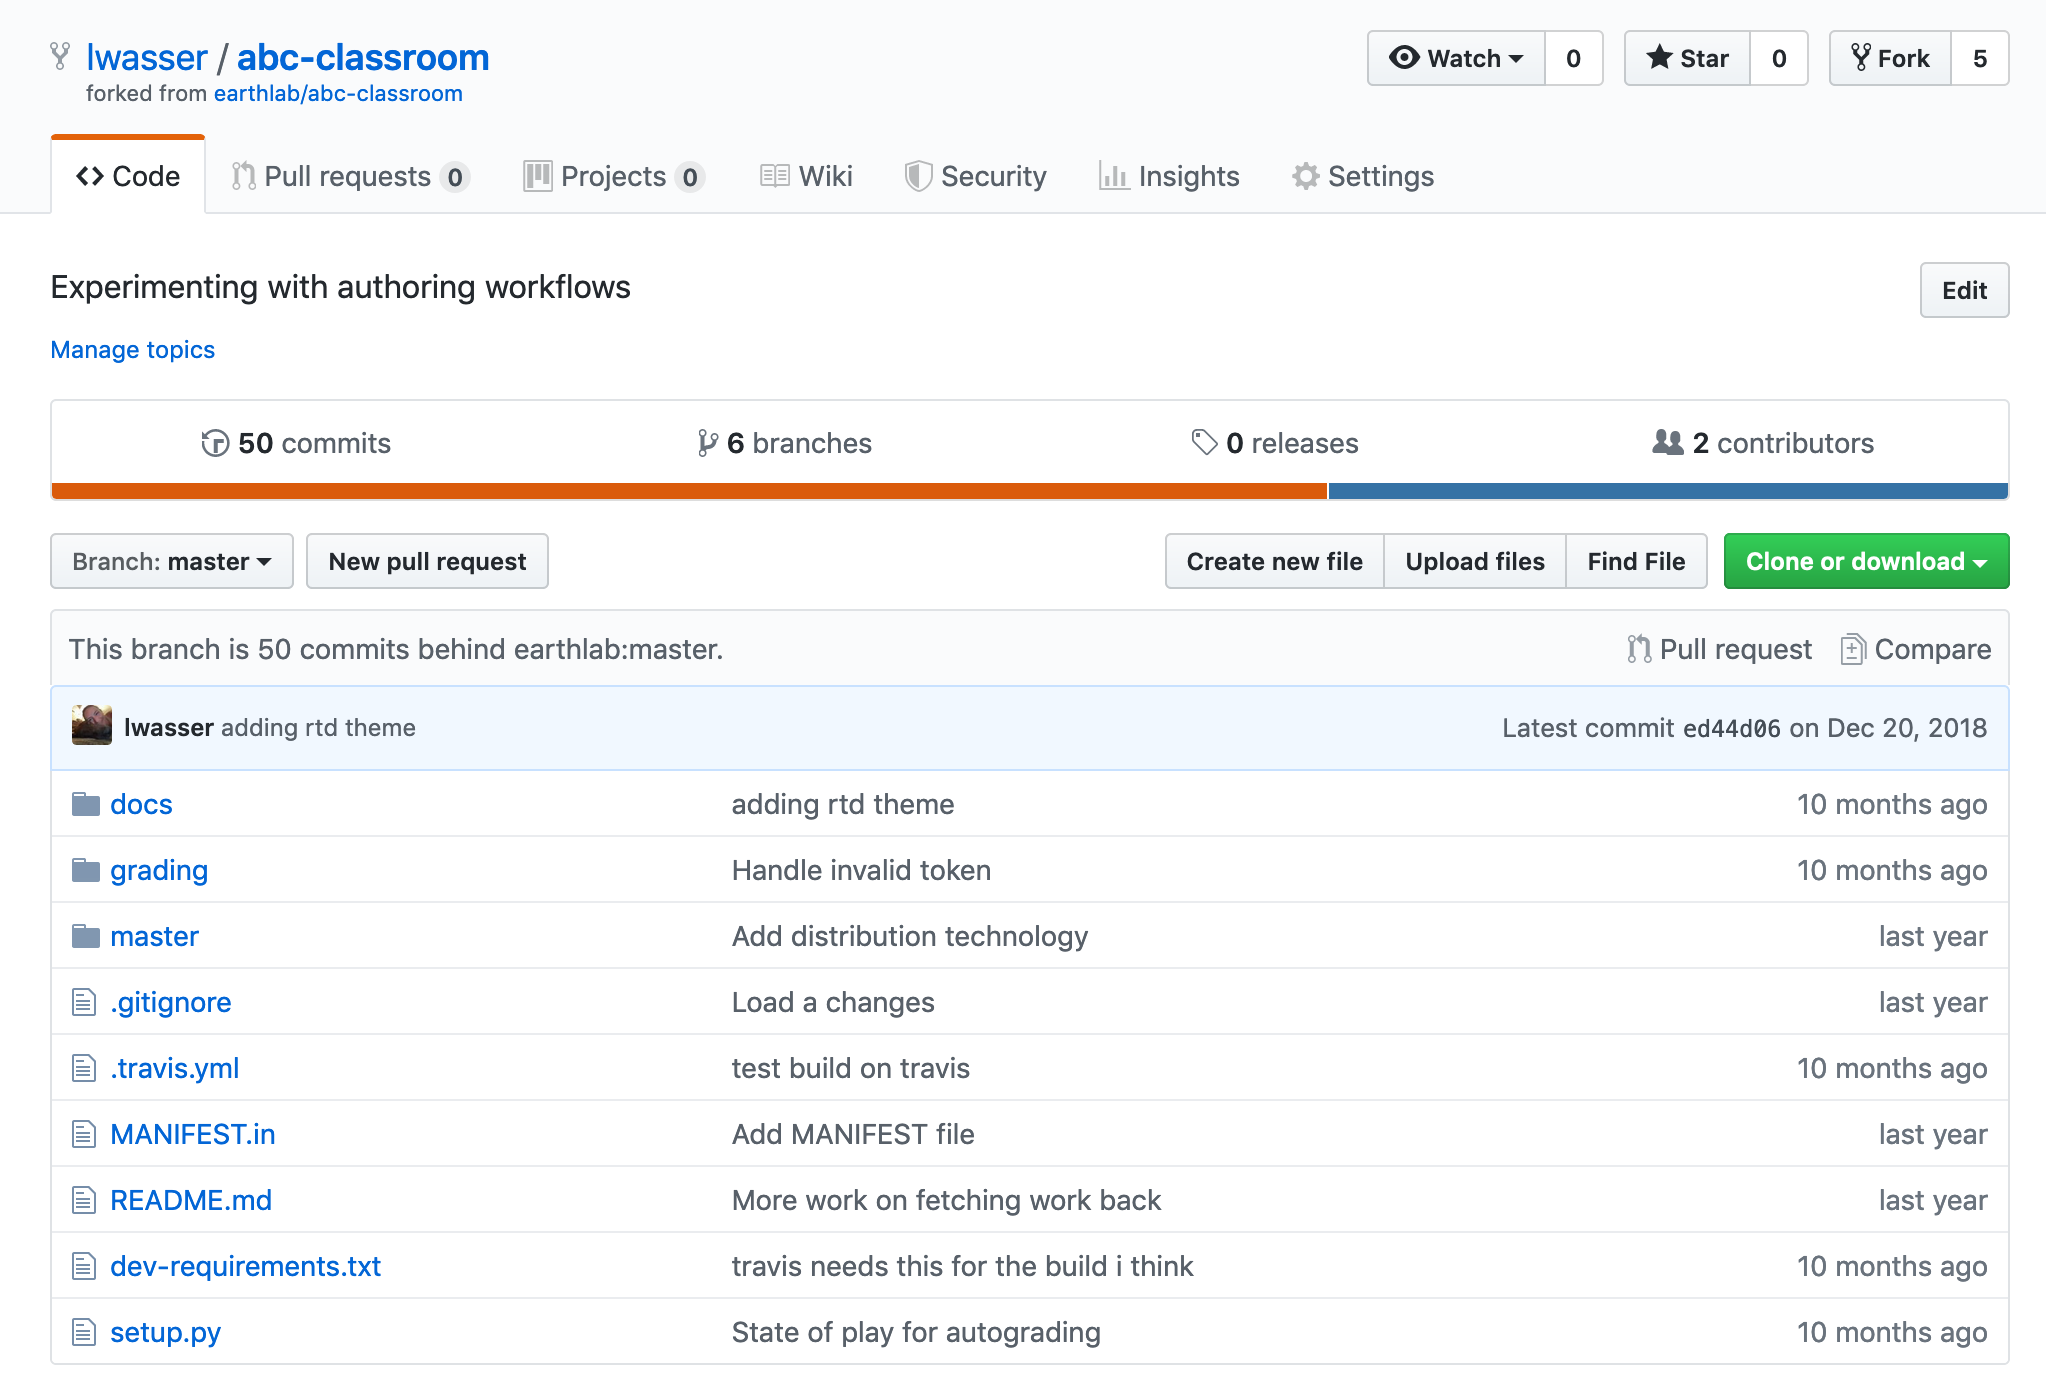
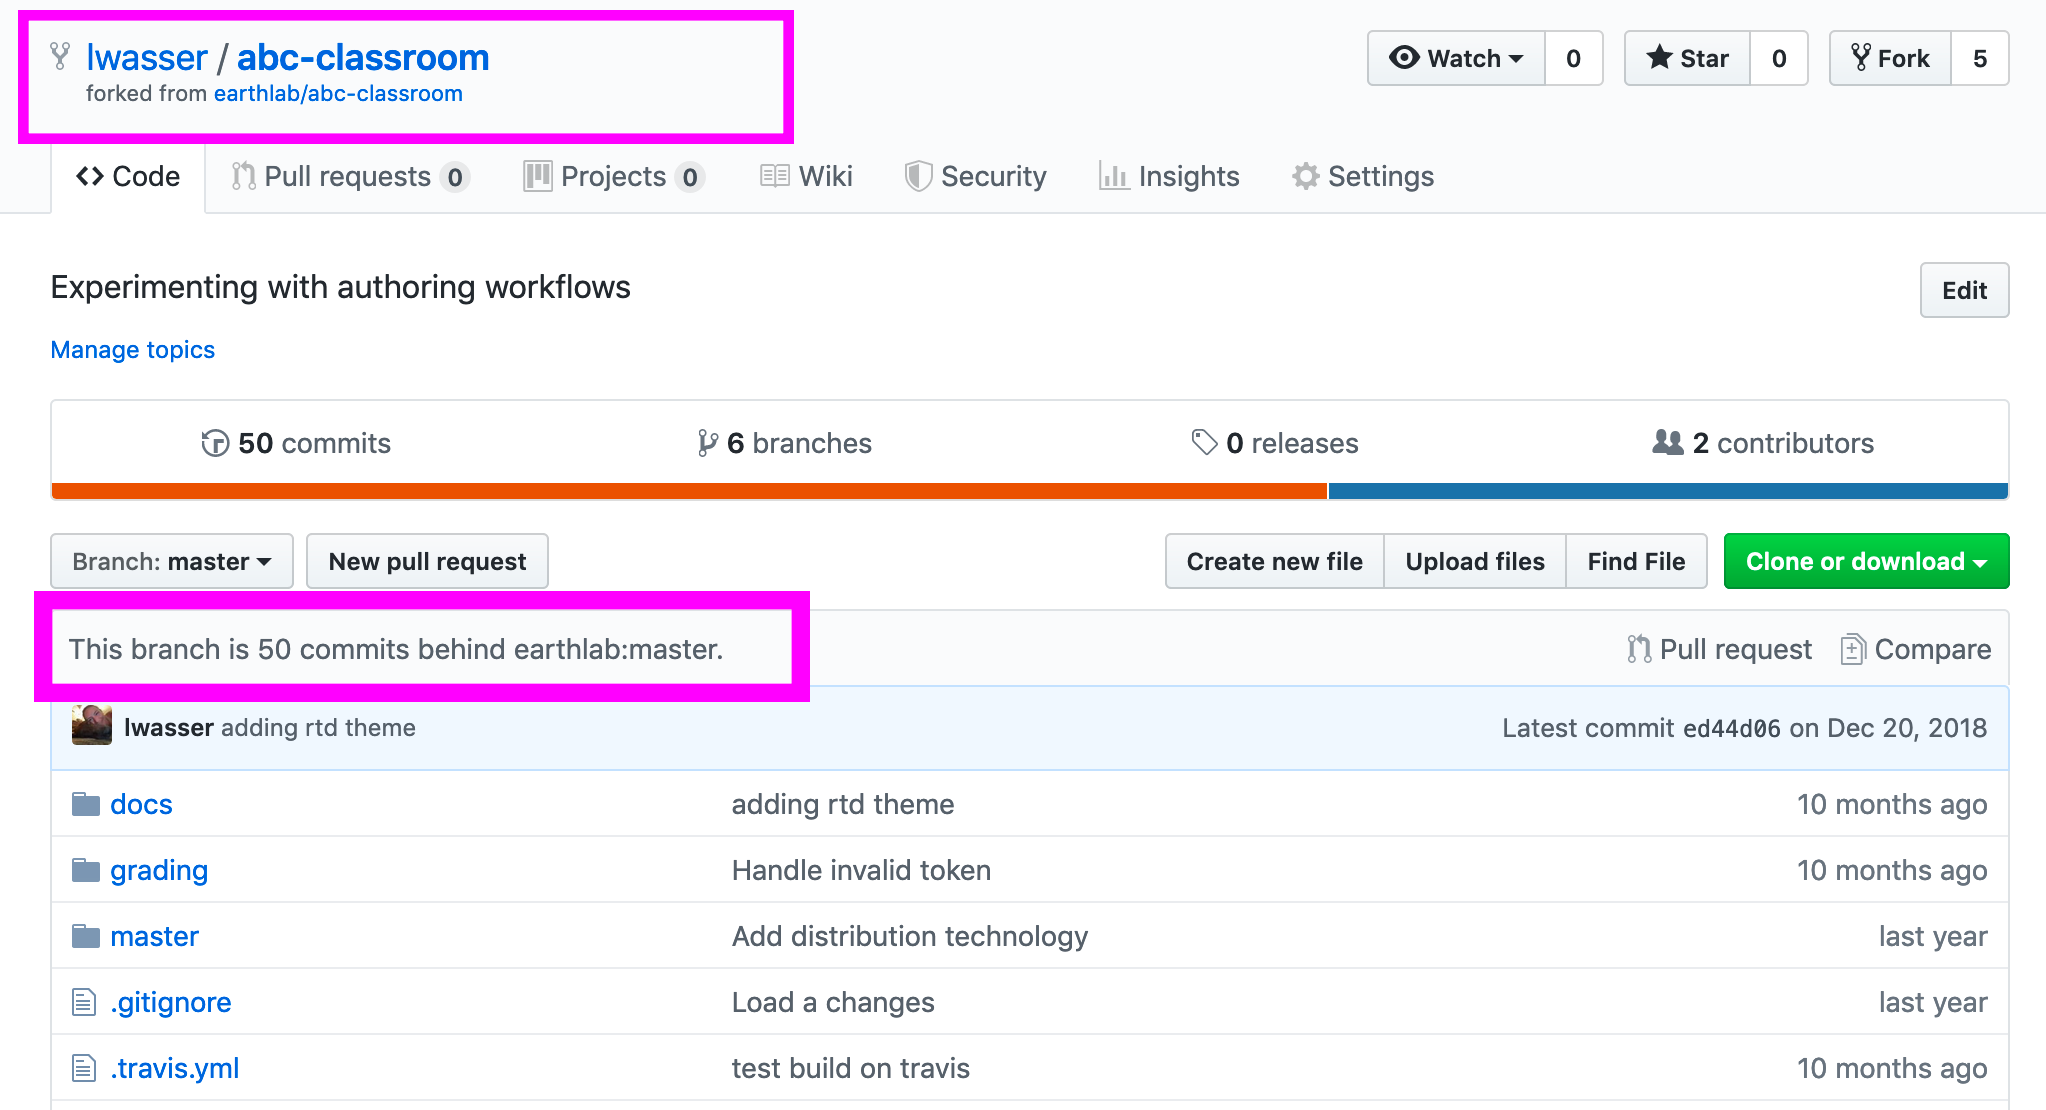
update sync lesson and cleanup comment

diff --git a/_posts/courses/intro-to-earth-data-science-textbook/03-git-github/github-collaboration/2019-10-02-github-collaboration-03-sync-github-repos.md b/_posts/courses/intro-to-earth-data-science-textbook/03-git-github/github-collaboration/2019-10-02-github-collaboration-03-sync-github-repos.md
@@ -33,9 +33,10 @@ After completing this page, you will be able to:
 
 </div>
 
-** how to update on GitHub
 
-github-commits-behind-master-abc.png
+
+
+
 
 TODO: create animated gif that shows the repo being out of sync and behind and then syncing...
 
@@ -53,8 +54,12 @@ Pretend that you are working on a fork of your colleagues repo. Your colleagues 
 Your repo being in sync refers to your fork having all of the commits or changes
 to the code and files that have been made to the parent repo.
 
-# TODO: Image showing a fork that is behind the parent ... and maybe one that's ahead???
-
+<figure>
+ <a href="{{ site.url }}/images/earth-analytics/git-version-control/github-commits-behind-master-abc.png">
+ <img src="{{ site.url }}/images/earth-analytics/git-version-control/github-commits-behind-master-abc.png" alt="Image of an out of sync forked repo. Notice that you can tell by the upper right hand corner of the repo that this fork is owned by lwasser. The parent repo is owned by earthlab. You can also see that this fork is BEHIND the parent repo by 50 commits. This fork is out of sync."></a>
+ <figcaption>Image of an out of sync forked repo. Notice that you can tell by the upper right hand corner of the repo that this fork is owned by lwasser. The parent repo is owned by earthlab. You can also see that this fork is BEHIND the parent repo by 50 commits. This fork is out of sync.
+ </figcaption>
+</figure>
 
 There are a few ways to update or sync your repo with the central repo (your colleagues repo).
 
@@ -64,6 +69,15 @@ There are a few ways to update or sync your repo with the central repo (your col
 This lesson will focus on syncing your fork using a reverse pull request approach on GitHub.com
 
 TODO: Image showing fork, clone and central repo (i imagine a triangle type graphic showing 1 and two... the order being different.. ) Ally could work on this.
+
+
+
+<figure>
+ <a href="{{ site.url }}/images/earth-analytics/git-version-control/git-fork-clone-flow-neon.png">
+ <img src="{{ site.url }}/images/earth-analytics/git-version-control/git-fork-clone-flow-neon.png" alt="When you fork a repo that is being actively worked on by other people, it is good practice to periodically update your fork with updates. Remember that multiple people may be adding to this repo at any given time."></a>
+ <figcaption>When you fork a repo that is being actively worked on by other people, it is good practice to periodically update your fork with updates. Remember that multiple people may be adding to this repo at any given time.
+ </figcaption>
+</figure>
 
 ## Sync Your Forked GitHub Repo Using A Pull Request
 
@@ -75,7 +89,7 @@ To sync your forked repo with the parent or central repo you:
 <figure>
  <a href="{{ site.url }}/images/earth-analytics/git-version-control/github-sync-repo.gif">
  <img src="{{ site.url }}/images/earth-analytics/git-version-control/github-sync-repo.gif" alt="An animated gif showing you how to sync a GitHub repo on GitHub.com. Note that you can also sync individual branches within a repo using this same approach."></a>
- <figcaption>An animated gif showing you how to sync a GitHub repo on GitHub.com. Note that you can also sync individual branches within a repo using this same approach.
+ <figcaption>An animated gif showing you how to sync a GitHub repo on GitHub.com. In this case, the user lwasser is updating her fork of the abc-classroom repo from the earthlab/abc-classroom repo. Note that the fork is the base (the repo being updated). The earthlab owned repo is teh head. You can also sync individual branches within a repo using this same approach.
  </figcaption>
 </figure>
 
@@ -138,6 +152,4 @@ $ git pull
 Congratulations! You have now updated your local clone with the updates made to the original **GitHub** repository.
 
 
-For Jenny:
-* Need to save copies of all external images using file-names-like-this.png to images/earth-analytics/git-version-control
-* Move all images that need it to images/earth-analytics/git-version-control
+
